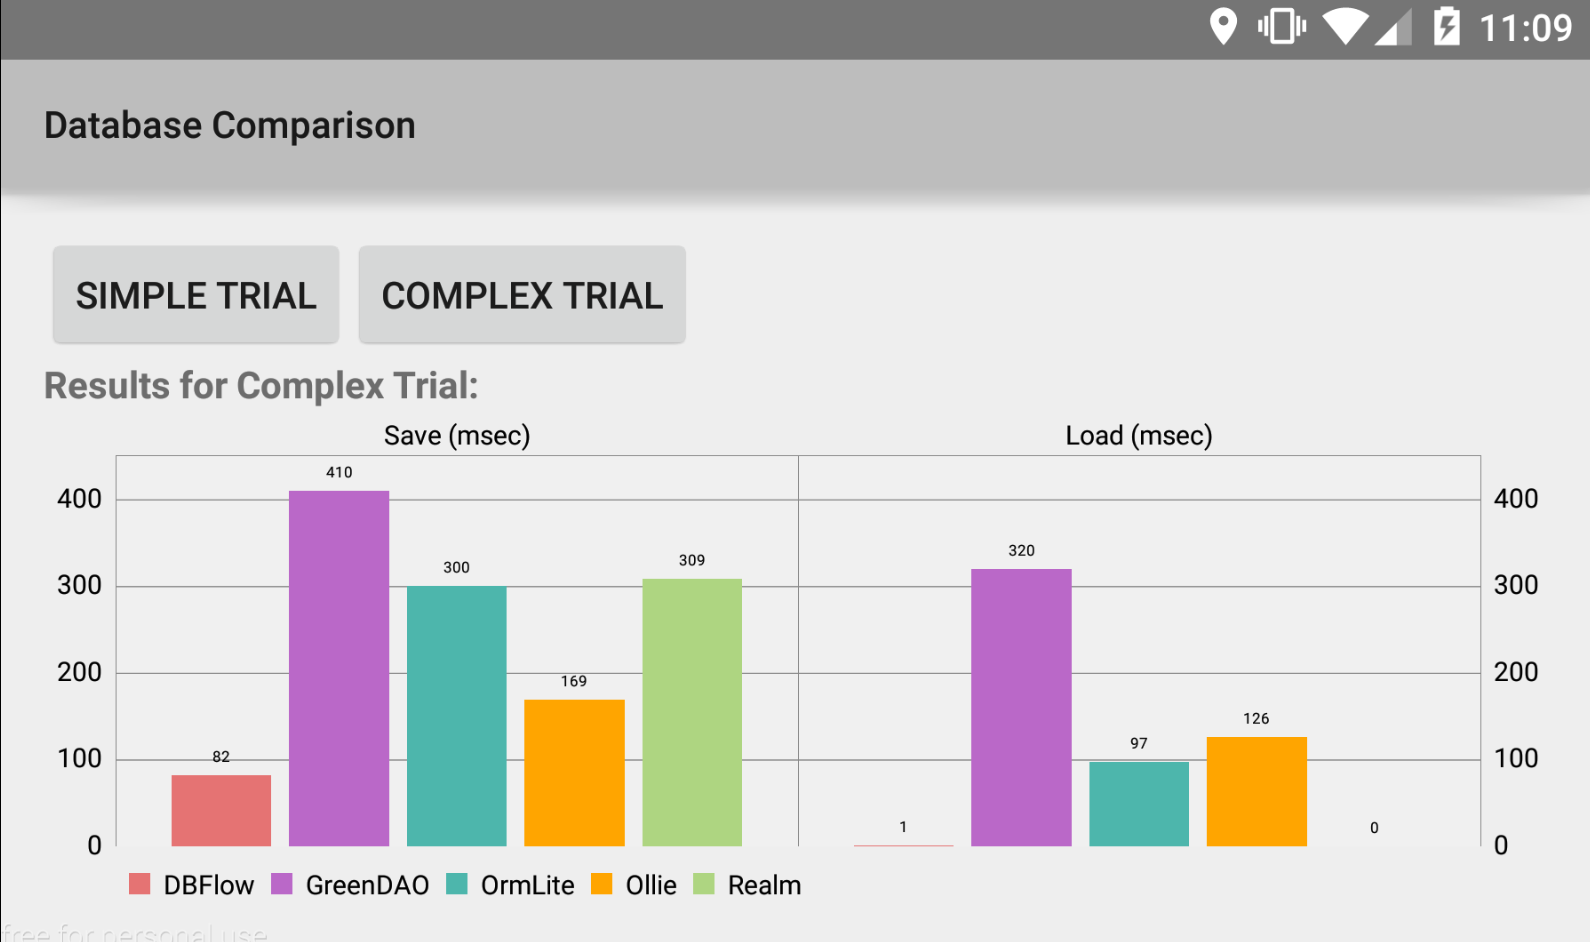
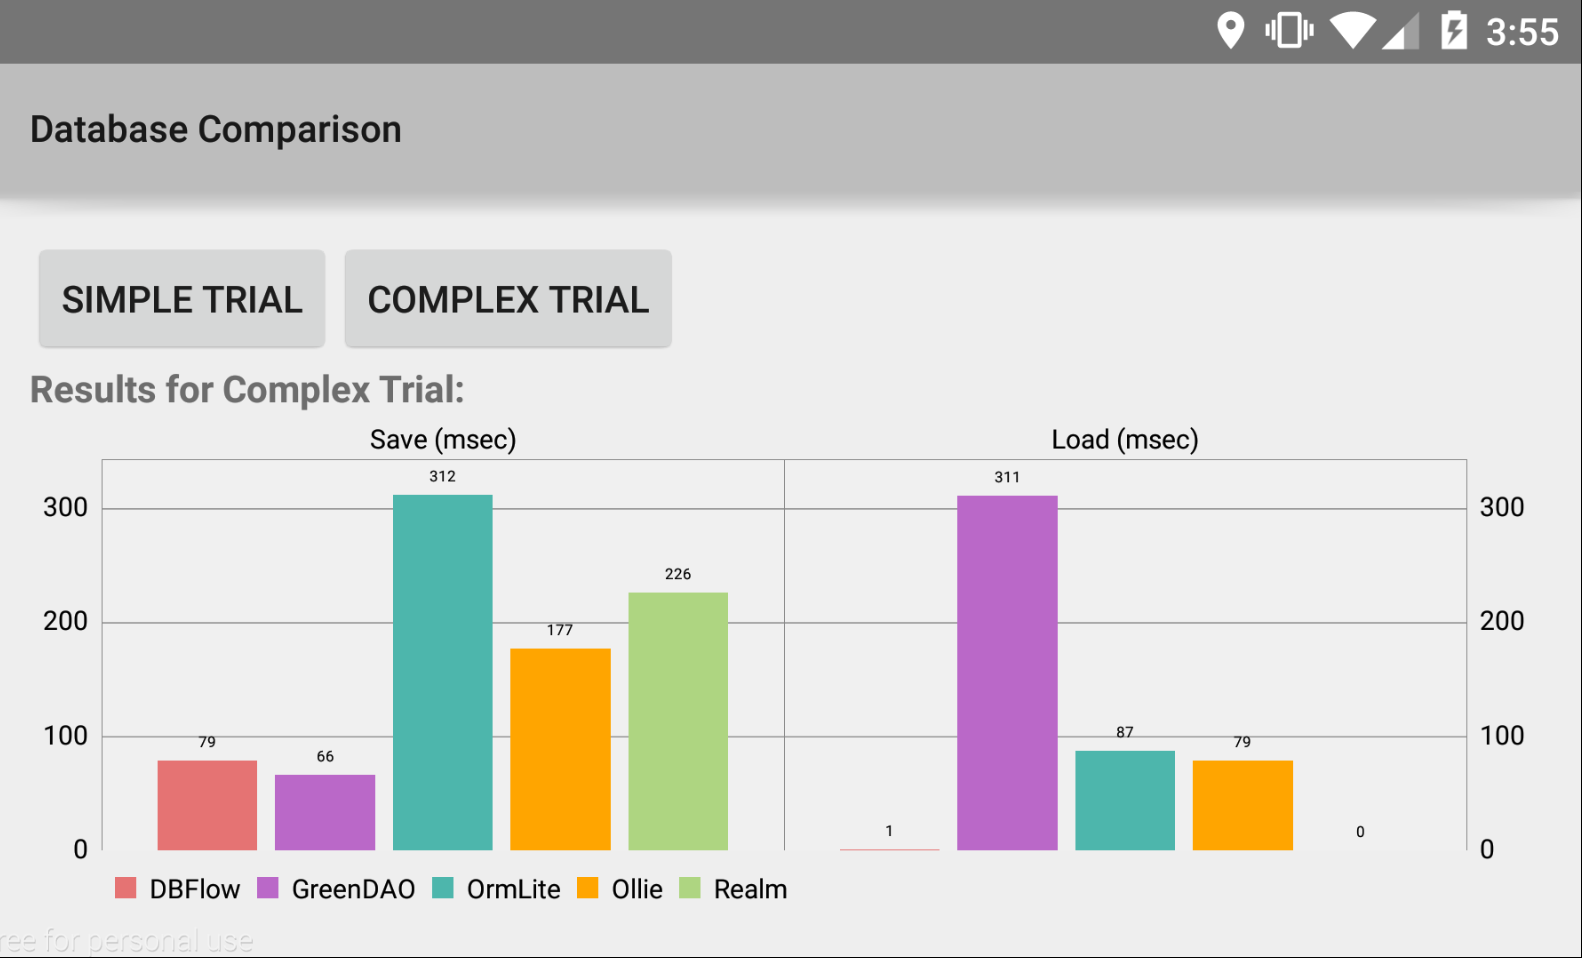
update graphs for GreenDAO Tx change Add link to original blog post in readme.

diff --git a/README.md b/README.md
@@ -32,3 +32,6 @@ These are the results for the Simple trial with the DBs that are no longer inclu
 And these are the results for the Complex trial:
 
 ![Complex Trial](images/complextrialv1.png "Complex Trial")
+
+## Blog Post:
+The original blog post can be [found here](http://www.raizlabs.com/dev/2015/02/go-dbflow-fastest-android-orm-database-library/)
